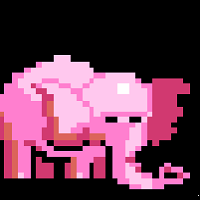
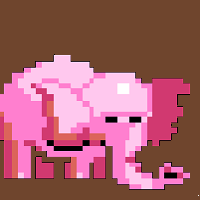
Happy with images

diff --git a/gameview.py b/gameview.py
@@ -41,7 +41,7 @@ class GameView(arcade.View):
         # add message
         output = f"Message: {self.message}"
         arcade.draw_text(output, 0, WINDOW_HEIGHT - 20, arcade.color.WHITE, 20)
-        output = f"Fiend Coins: {self.player_coins}"
+        output = f"Flowers collected: {self.player_coins}"
         arcade.draw_text(output, 0, WINDOW_HEIGHT - 50, arcade.color.WHITE, 20)
         output = f"Health: {self.player_health}"
         arcade.draw_text(output, 0, WINDOW_HEIGHT - 80, arcade.color.WHITE, 20)
@@ -99,13 +99,15 @@ class GameView(arcade.View):
                                                              self.rooms[self.current_room].wall_list)
             coordinate.remove_from_sprite_lists()
 
-        #bouncing monster
+        # bouncing monster
         temporary_walls = arcade.SpriteList()
         temporary_walls.append(self.rooms[self.current_room].next_level[0])
         for coin in self.rooms[self.current_room].coin_list:
             temporary_walls.append(coin)
         for wall in self.rooms[self.current_room].wall_list:
             temporary_walls.append(wall)
+        for monster in self.rooms[self.current_room].monster_list:
+            temporary_walls.append(monster)
         for monster in self.rooms[self.current_room].monster_list:
             monster.center_x += monster.change_x
             walls_hit = arcade.check_for_collision_with_list(monster, temporary_walls)
@@ -115,7 +117,7 @@ class GameView(arcade.View):
                 elif monster.change_x < 0:
                     monster.left = wall.right
             if len(walls_hit) > 0:
-                monster.change_x*= - 1
+                monster.change_x *= - 1
             monster.center_y += monster.change_y
             walls_hit = arcade.check_for_collision_with_list(monster, temporary_walls)
             for wall in walls_hit:

diff --git a/Levels.py b/Levels.py
@@ -41,7 +41,7 @@ class allLevels():
 
             # add next room portal
             end = current_room.next_level
-            sprite = arcade.Sprite("image/bush.png", .15)
+            sprite = arcade.Sprite("image/end.png", .15)
             left = end[0]
             bottom = end[1]
             sprite.left = left
@@ -60,8 +60,17 @@ class allLevels():
 
             # add monster
             monsters = current_room.monsters
+            if sprite_room < 5:
+                image = "image/monster.png"
+            if 5 <= sprite_room < 10:
+                image = "image/monster2.png"
+            if 10 <= sprite_room < 15:
+                image = "image/monster3.png"
+            if 15 <= sprite_room <= 20:
+                image = "image/monster4.png"
+
             for monster in monsters:
-                sprite = arcade.Sprite("image/monster.png", .15)
+                sprite = arcade.Sprite(image, .25)
                 left = monster[0]
                 bottom = monster[1]
                 sprite.left = left

diff --git a/Room.py b/Room.py
@@ -122,7 +122,7 @@ class room():
     def add_monster(self):
         w = int(self.width / 50)
         h = int(self.height / 50)
-        monster_num = random.randint(1, 4)
+        monster_num = random.randint(1, 5)
         for m in range(monster_num):
             left = random.randint(1, w - 1)
             for y in range(2):

diff --git a/constants.py b/constants.py
@@ -2,7 +2,7 @@ import arcade
 
 WINDOW_WIDTH = 900
 WINDOW_HEIGHT = 800
-BACKGROUND_COLOR = arcade.color.BLACK
+BACKGROUND_COLOR = arcade.color.BROWN_NOSE
 GAME_TITLE = "Fiendship"
 PLAYER_MOVEMENT_SPEED = 5
 

diff --git a/README.md b/README.md
@@ -1,2 +1,4 @@
 elephant image: https://opengameart.org/content/cute-2d-animals
 Vegtable image: https://opengameart.org/content/veggy-friends
+hedge image: https://opengameart.org/content/ivy-hedge
+Flower image: https://opengameart.org/content/pixel-flower-icons
